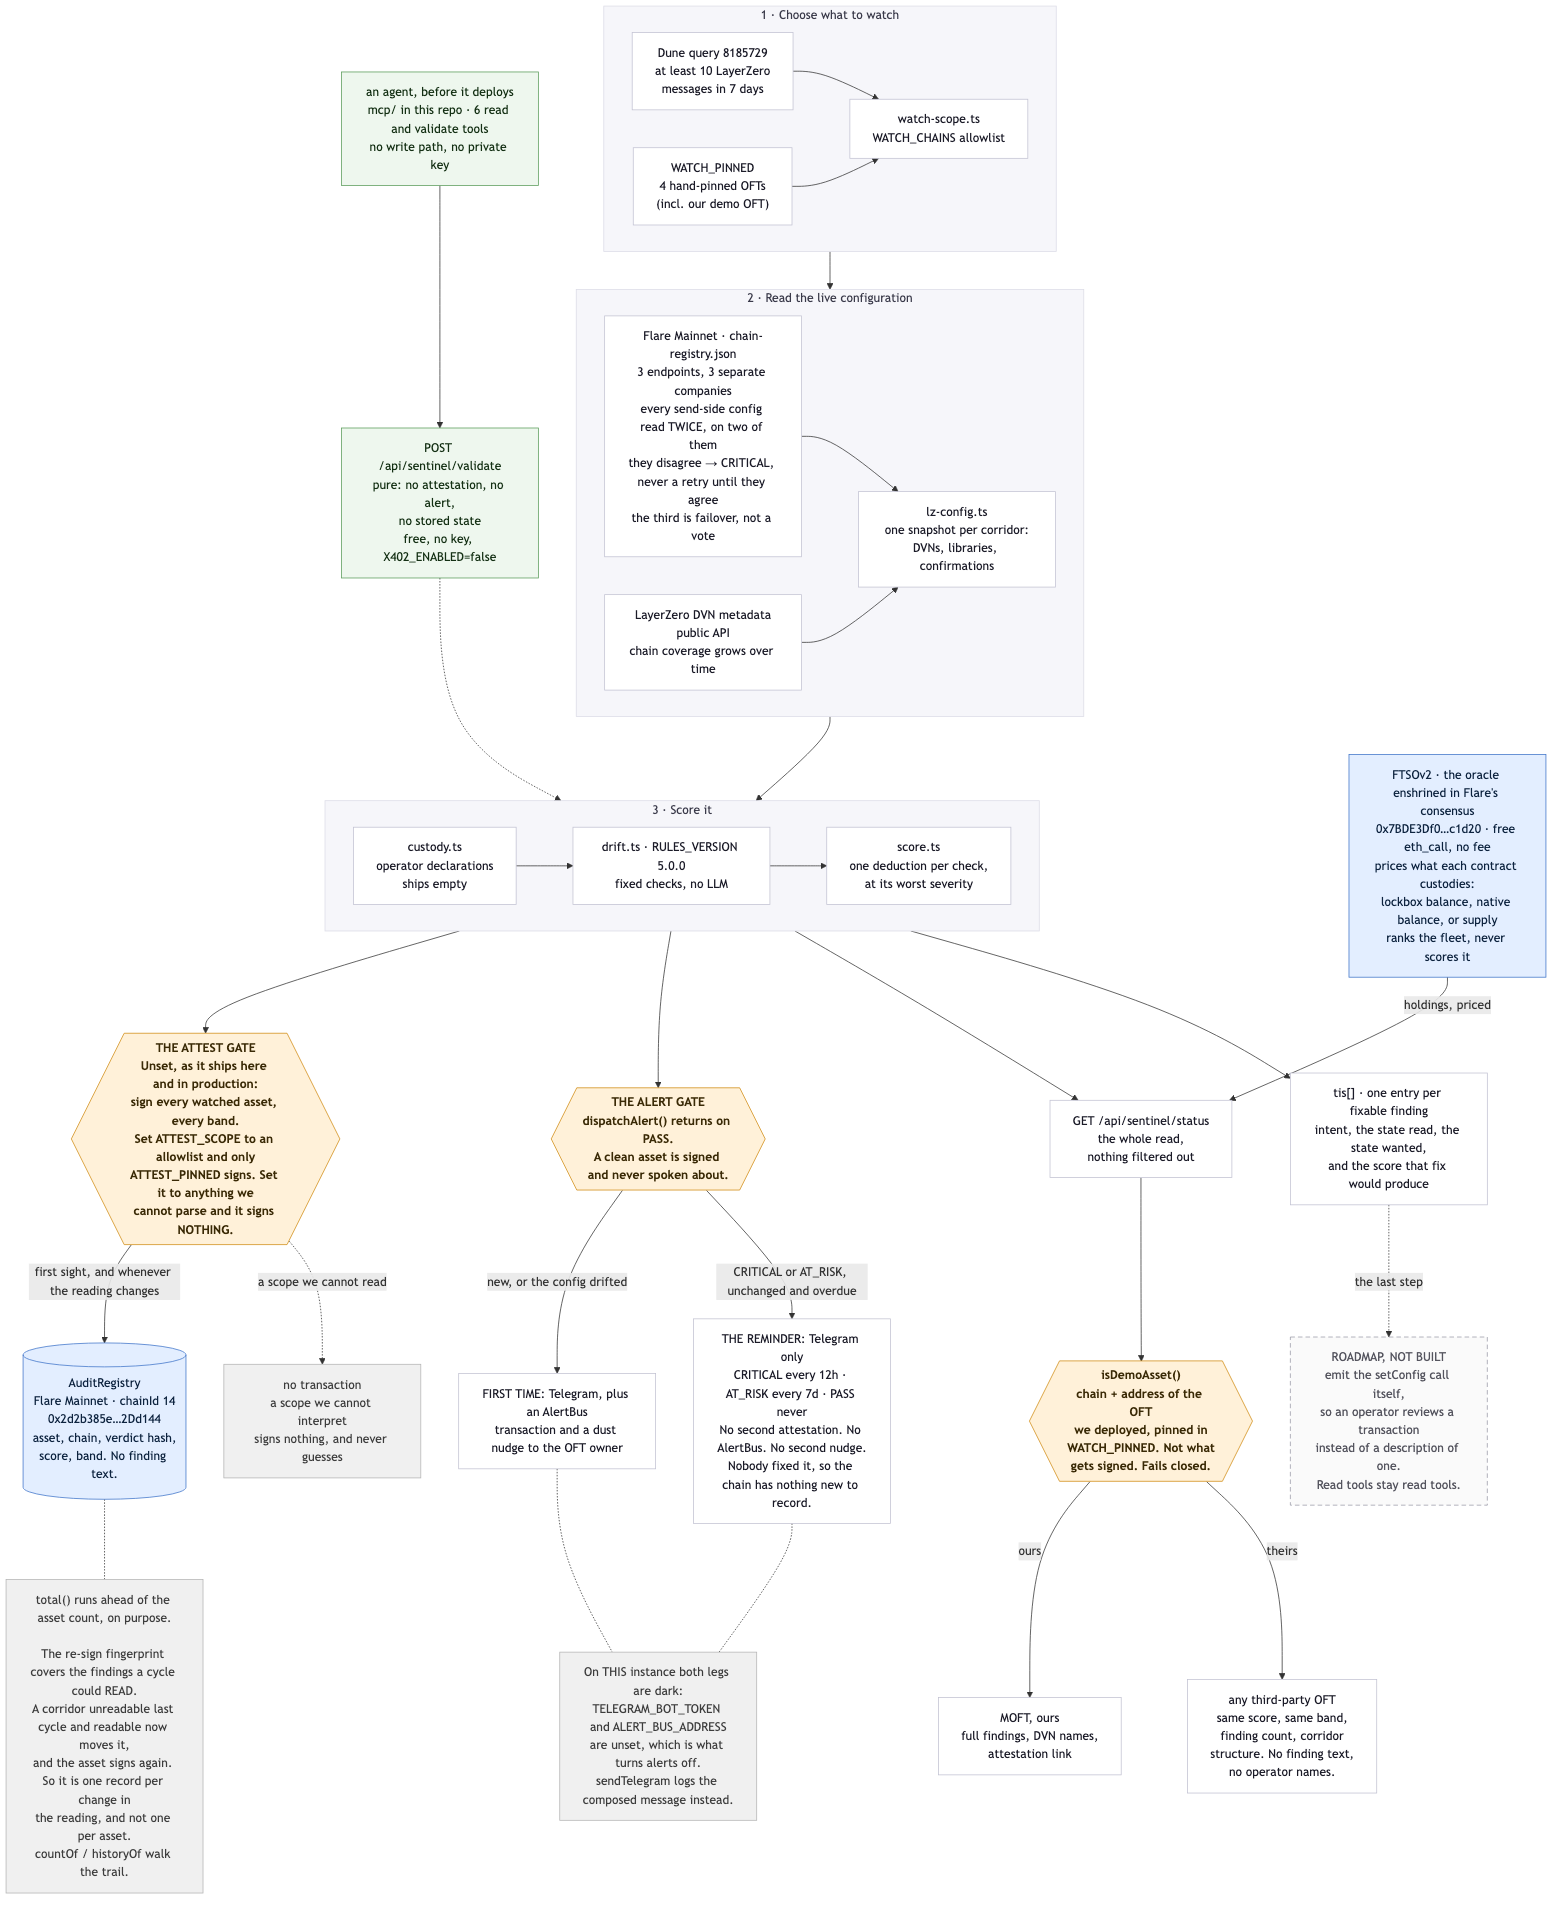
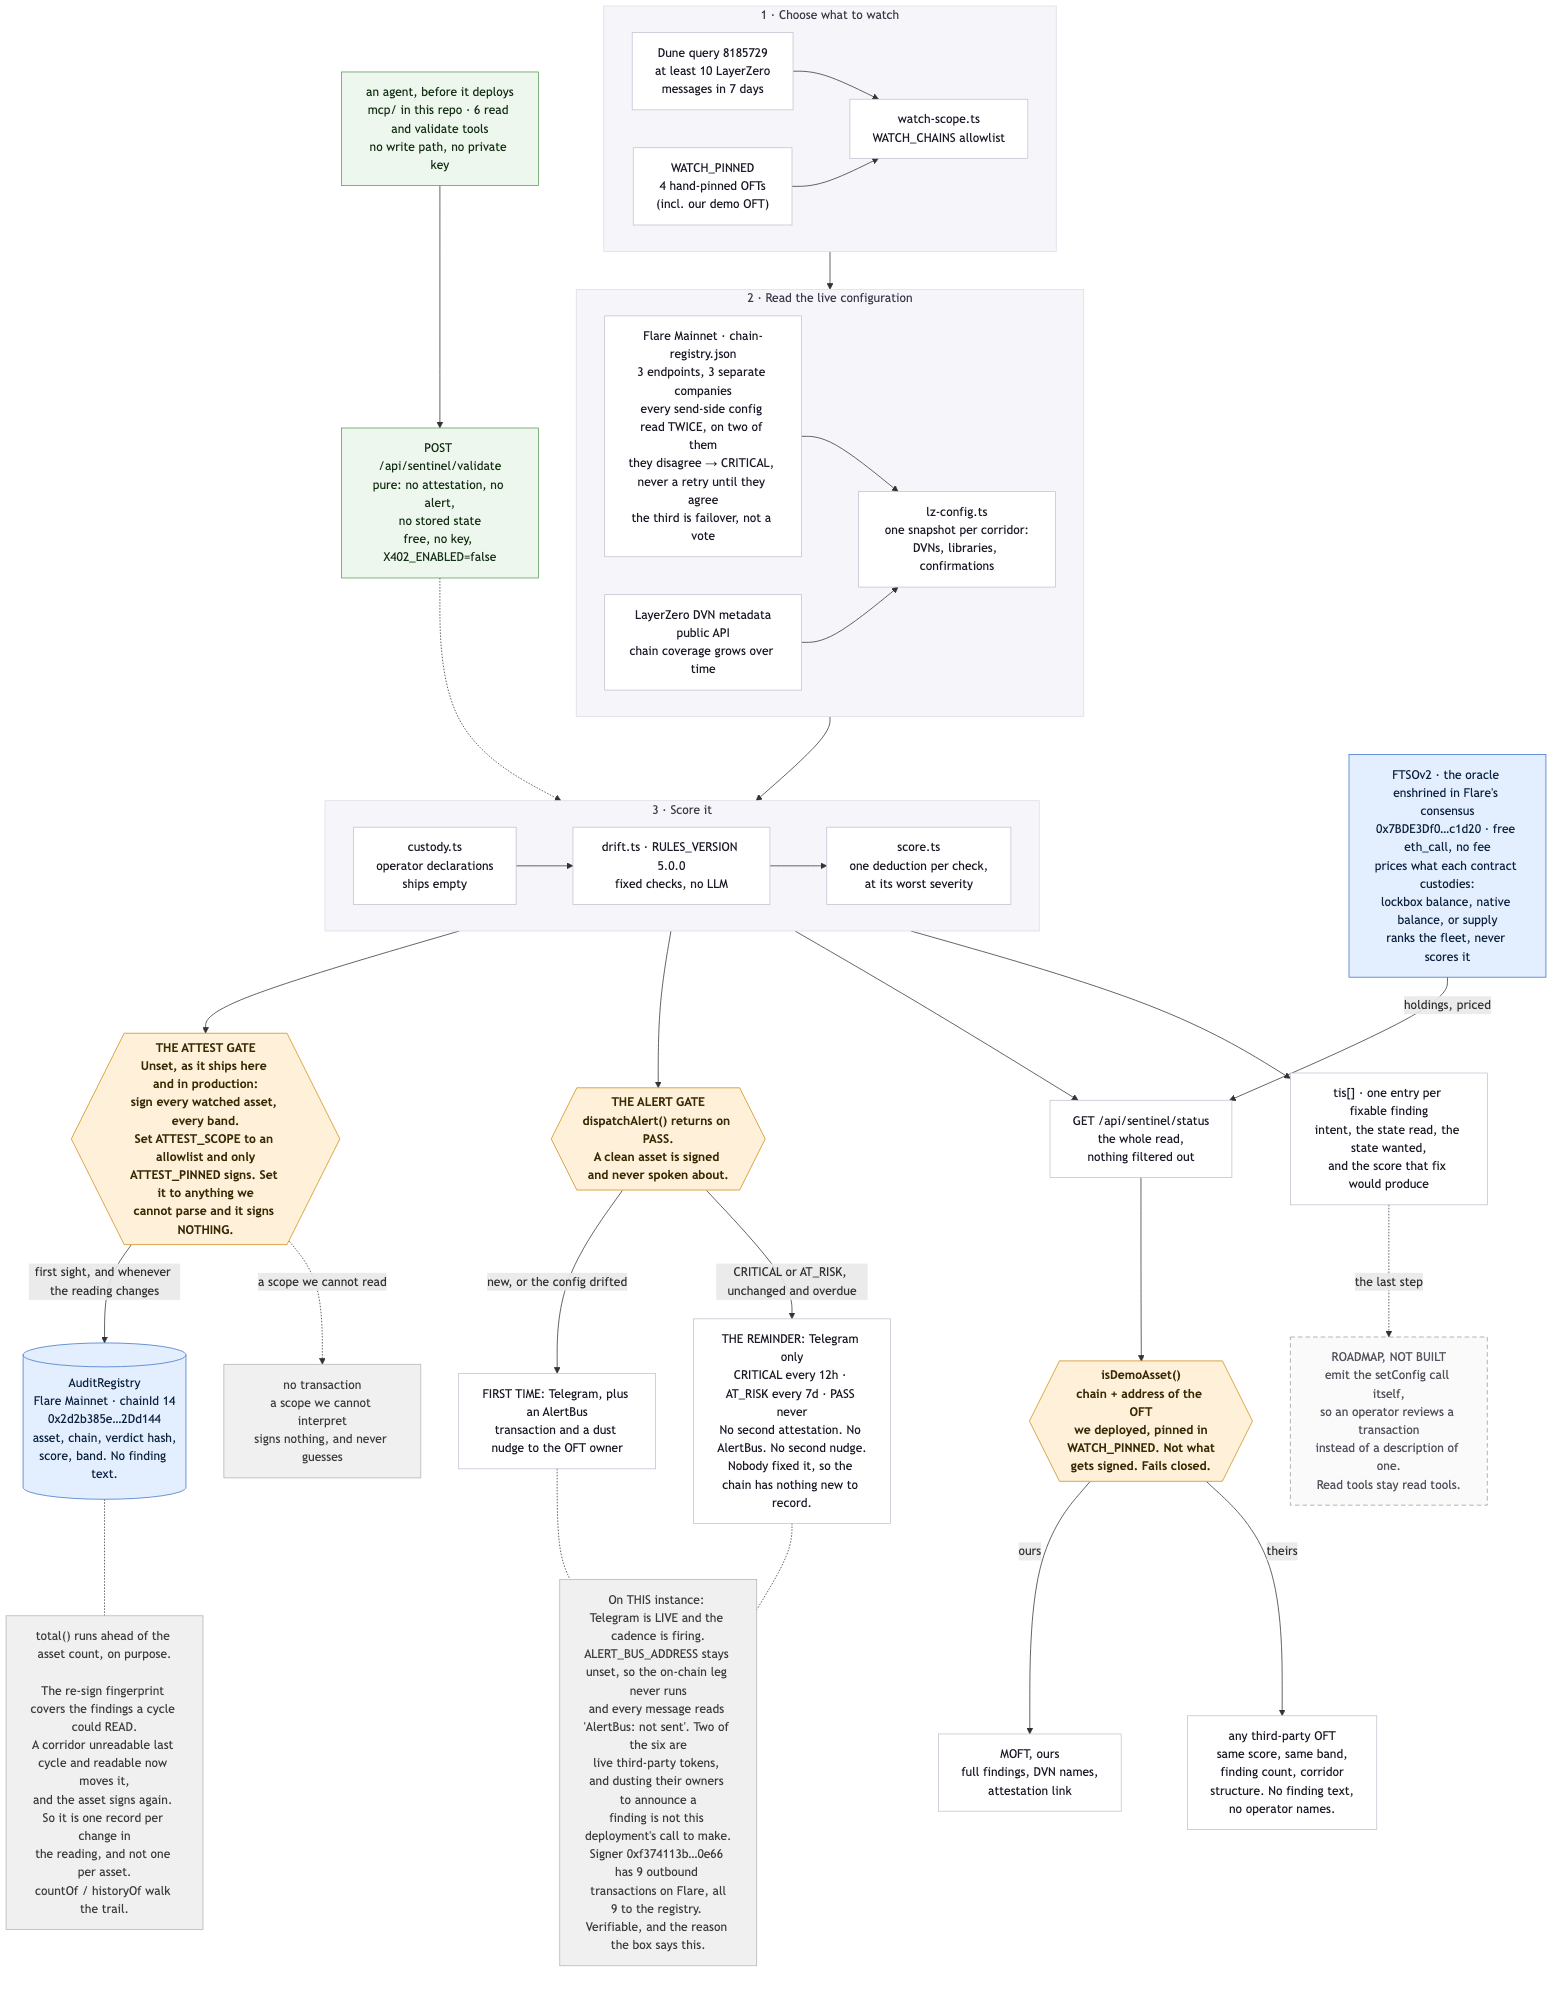
Alerts are live: correct five places that said the leg was dark
TELEGRAM_BOT_TOKEN was set on the running instance on 2026-08-09 and the re-ping
cadence started firing. Five artifacts still said alerts were off, two of them
published: the architecture diagram, the README's alert-gate section, and the
comment in backend/.env.flare.example.

ALERT_BUS_ADDRESS is still unset and stays that way. Verified on-chain rather
than asserted: the signer 0xf374113bE1bC5315c917092729d3F09F771B0e66 has exactly
nine outbound transactions on Flare and all nine go to the AuditRegistry. No
AlertBus call, no dust transfer to any OFT owner. The env comment now says WHY it
stays unset instead of just recording that it is: the on-chain leg dusts the OFT
owner's wallet on first fire, and five of the six watched assets belong to other
people.

diff --git a/README.md b/README.md
@@ -245,9 +245,17 @@ hours, an AT_RISK every 7 days, both tunable in minutes through
 and is priced like one. The first fire also sends an AlertBus transaction and a
 dust nudge to the OFT owner; a repeat sends neither, and writes no second
 attestation, because nobody fixed anything and the chain has nothing new to
-record. On this instance both on-chain legs are dark: `TELEGRAM_BOT_TOKEN` and
-`ALERT_BUS_ADDRESS` are unset, and `sendTelegram` logs the composed message
-instead of sending it.
+record.
+
+**On this instance the Telegram leg is live and the cadence is firing.**
+`ALERT_BUS_ADDRESS` stays unset, so the on-chain leg never runs and every message
+reads `AlertBus: not sent`. That is a decision rather than a gap. Setting it turns
+on two writes per first-fire, an AlertBus transaction and a dust transfer to the
+OFT owner's wallet, and five of the six assets here belong to other people.
+Sending a stranger an unsolicited transfer to announce a finding about their token
+is not a call this deployment makes on its own. You can check the claim without
+trusting it: the signer `0xf374113bE1bC5315c917092729d3F09F771B0e66` has nine
+outbound transactions on Flare and all nine go to the registry.
 
 The **render filter** decides what the page says. `/api/sentinel/status` returns
 the whole read, and `isDemoAsset()` splits the page: our own asset shows full
